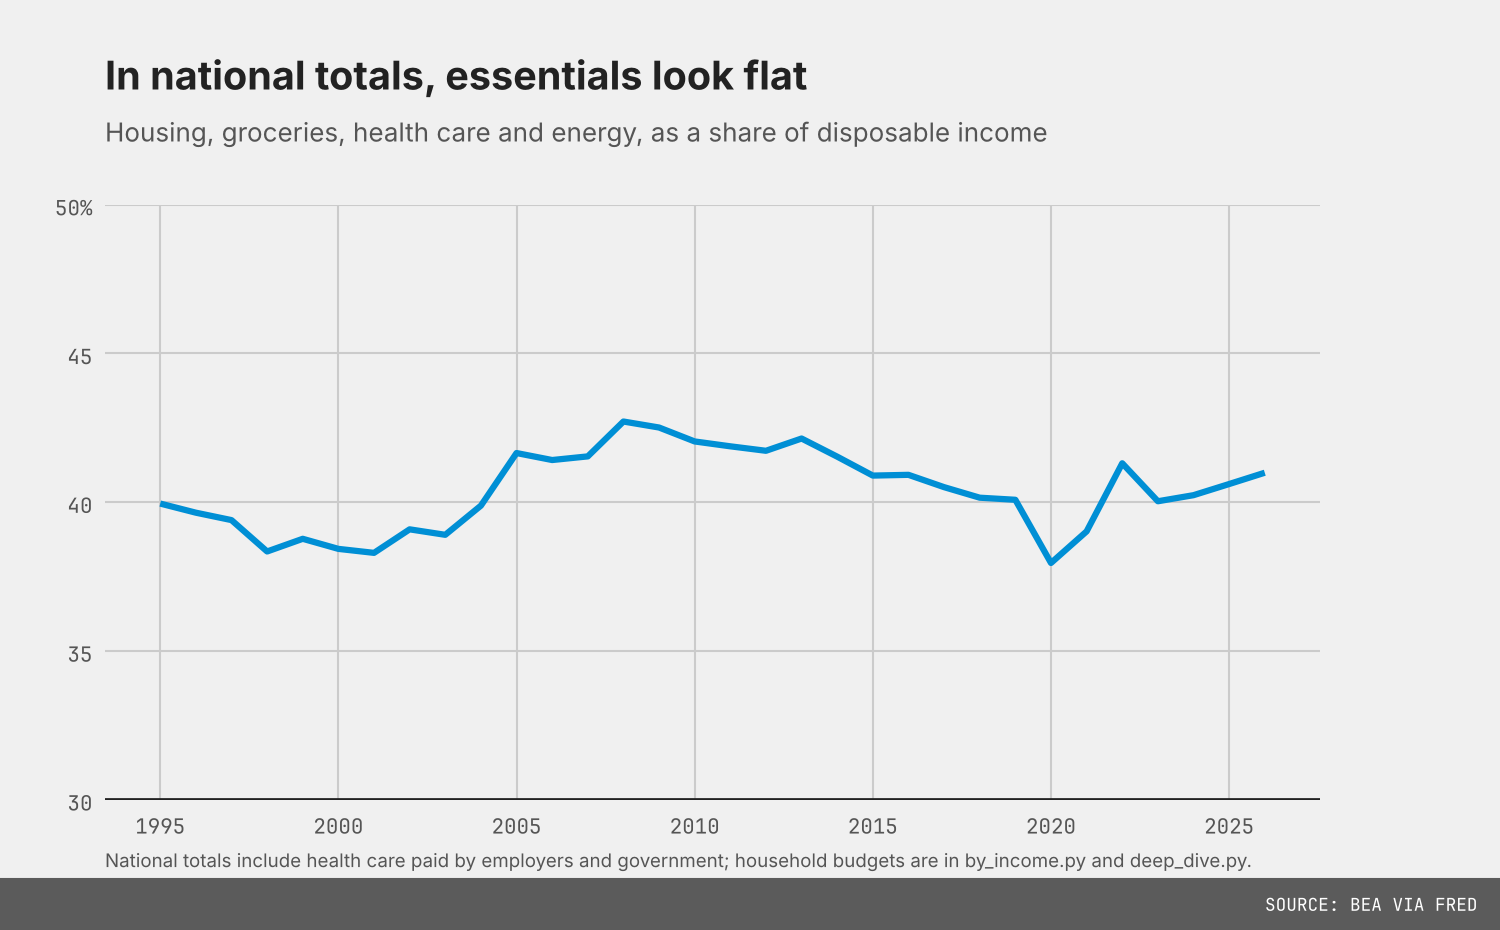
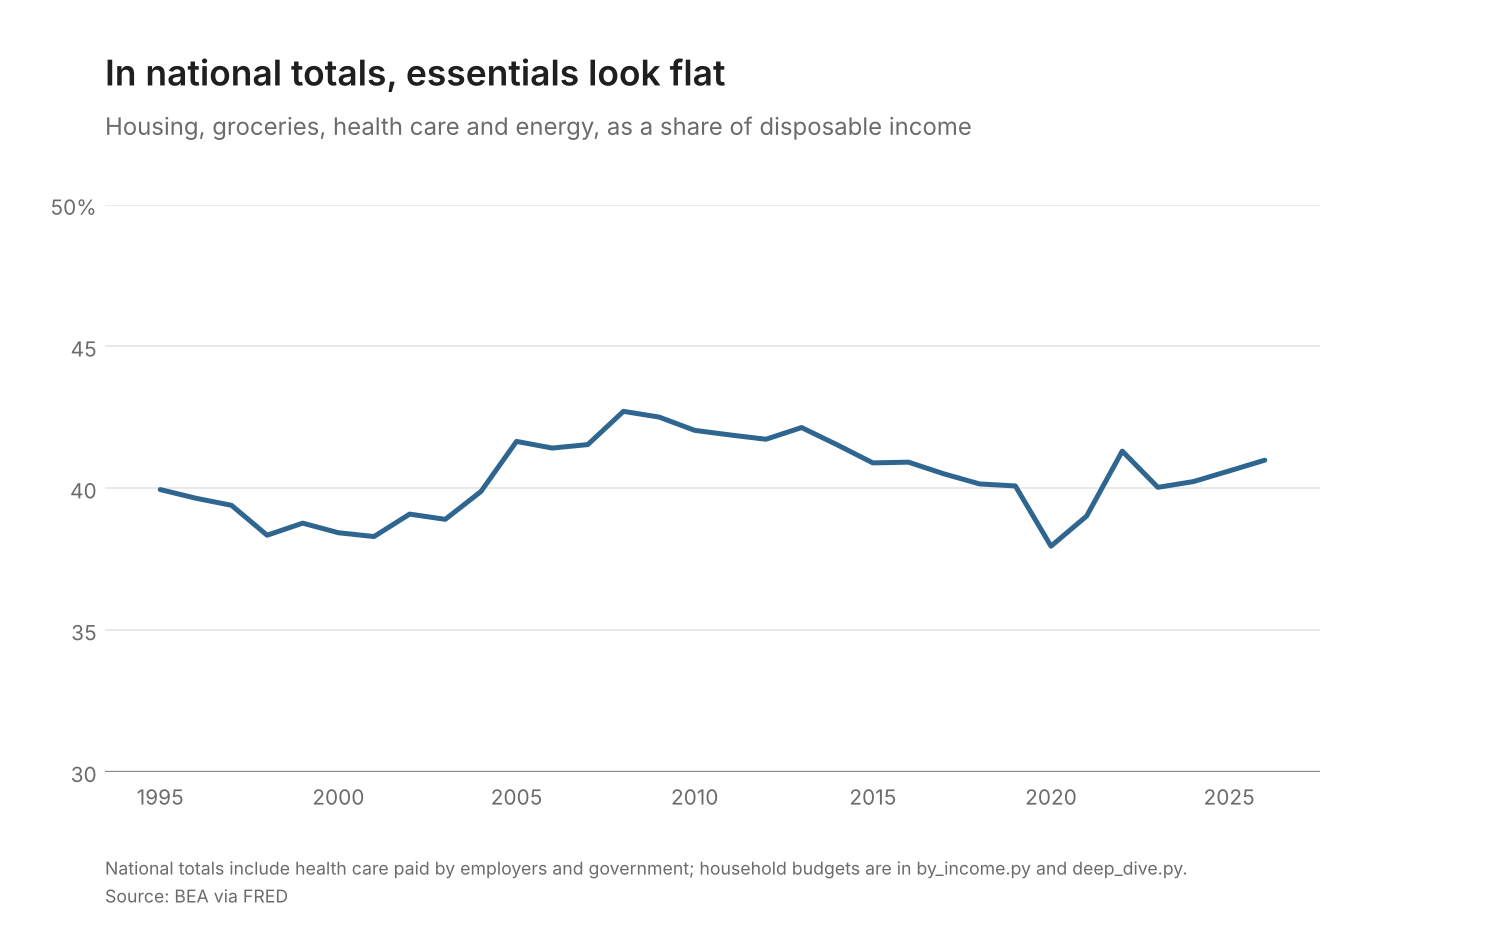
Switch charts to a cleaner neutral style
White background, horizontal gridlines only, sans-serif ticks, a muted
palette, semibold headlines and a plain source line in place of the
gray canvas, monospaced ticks and dark source bar.

Claude-Session: https://claude.ai/code/session_015UrztArHpAPPRd1ooHHwA1

diff --git a/chart_style.py b/chart_style.py
@@ -1,18 +1,20 @@
-"""Shared chart style, modeled on the classic FiveThirtyEight look: light gray canvas,
-bold left-aligned headline with subtitle, monospaced tick labels, thick lines,
-direct labels, a heavy baseline and a dark source bar along the bottom."""
+"""Shared chart style: white background, faint horizontal gridlines, a semibold
+left-aligned headline with a subtitle, direct line labels, a muted palette and a
+small source line at the bottom."""
 import matplotlib.pyplot as plt
 from matplotlib import font_manager
 from matplotlib.ticker import FuncFormatter
 
-BG = "#F0F0F0"
-GRID = "#CBCBCB"
-TEXT = "#222222"
-MUTED = "#555555"
-FOOTER = "#5B5B5B"
+BG = "#FFFFFF"
+GRID = "#E8E8E8"
+TEXT = "#1F1F1F"
+MUTED = "#6B6B6B"
+SHADE = "#F3F3F3"
 
-BLUE, RED, GOLD, GREEN, GRAY, PURPLE = "#008FD5", "#FC4F30", "#E5AE38", "#6D904F", "#8B8B8B", "#810F7C"
-DARK = "#3C3C3C"
+# Muted, colorblind-friendlier palette
+BLUE, RED, GOLD, GREEN, GRAY, PURPLE = "#2F6690", "#C8553D", "#E0A030", "#3A8F7E", "#9A9A9A", "#7A5C99"
+DARK = "#333333"
+LIGHT_GOLD, DARK_GOLD, LIGHT_BLUE = "#F0CF8E", "#A0701A", "#9EC1DB"
 PALETTE = [BLUE, RED, GOLD, GREEN, GRAY, PURPLE]
 
 
@@ -22,71 +24,64 @@ def _font(preferred, fallback):
 
 
 SANS = _font(["Inter", "Helvetica Neue", "Helvetica", "Arial", "Liberation Sans"], "DejaVu Sans")
-MONO = _font(["JetBrains Mono", "DejaVu Sans Mono", "Liberation Mono"], "monospace")
 
 
 def apply():
     plt.rcParams.update({
         "figure.facecolor": BG, "axes.facecolor": BG, "savefig.facecolor": BG,
         "figure.dpi": 150, "font.family": SANS, "font.size": 11, "text.color": TEXT,
-        "axes.edgecolor": BG, "axes.linewidth": 0, "axes.grid": True, "axes.axisbelow": True,
-        "grid.color": GRID, "grid.linewidth": 1.0, "grid.linestyle": "-",
+        "axes.edgecolor": BG, "axes.linewidth": 0, "axes.grid": True, "axes.grid.axis": "y",
+        "axes.axisbelow": True, "grid.color": GRID, "grid.linewidth": 0.9,
         "axes.spines.top": False, "axes.spines.right": False,
         "axes.spines.left": False, "axes.spines.bottom": False,
         "xtick.color": MUTED, "ytick.color": MUTED, "xtick.labelsize": 10, "ytick.labelsize": 10,
-        "xtick.major.size": 0, "ytick.major.size": 0, "xtick.major.pad": 6, "ytick.major.pad": 6,
-        "axes.prop_cycle": plt.cycler(color=PALETTE), "lines.linewidth": 3,
-        "lines.solid_capstyle": "butt", "legend.frameon": False, "legend.fontsize": 10,
-        "axes.titlesize": 12, "axes.titleweight": "bold", "axes.titlelocation": "left", "axes.titlepad": 10,
+        "xtick.major.size": 0, "ytick.major.size": 0, "xtick.major.pad": 6, "ytick.major.pad": 4,
+        "axes.prop_cycle": plt.cycler(color=PALETTE), "lines.linewidth": 2.4,
+        "lines.solid_capstyle": "round", "legend.frameon": False, "legend.fontsize": 10,
+        "axes.titlesize": 11.5, "axes.titleweight": "semibold", "axes.titlelocation": "left",
+        "axes.titlepad": 10, "axes.titlecolor": TEXT,
     })
 
 
 def figure(nrows=1, ncols=1, width=10, height=6.2, **kw):
-    """Figure with room reserved for the headline, subtitle and source bar."""
+    """Figure with room reserved for the headline, subtitle and source line."""
     apply()
     fig, axes = plt.subplots(nrows, ncols, figsize=(width, height), **kw)
-    fig.subplots_adjust(left=0.07, right=0.88, top=0.78, bottom=0.14, wspace=0.28)
+    fig.subplots_adjust(left=0.07, right=0.88, top=0.78, bottom=0.12, wspace=0.28)
     for ax in (axes.flat if hasattr(axes, "flat") else [axes]):
         style_ticks(ax)
     return fig, axes
 
 
 def style_ticks(ax):
-    for lab in ax.get_xticklabels() + ax.get_yticklabels():
-        lab.set_fontfamily(MONO)
     ax.tick_params(axis="both", which="both", length=0)
 
 
 def unit_on_top(ax, fmt=lambda v: f"{v:g}", prefix="", suffix=""):
-    """Put the unit only on the top tick label, as FiveThirtyEight did ('$60', '50%')."""
+    """Put the unit only on the top tick label ('$60', '50%')."""
     ax.figure.canvas.draw()
     ticks = [t for t in ax.get_yticks() if ax.get_ylim()[0] <= t <= ax.get_ylim()[1]]
     top = max(ticks) if ticks else None
     ax.yaxis.set_major_formatter(FuncFormatter(
         lambda v, _: f"{prefix}{fmt(v)}{suffix}" if top is not None and abs(v - top) < 1e-9 else fmt(v)))
-    style_ticks(ax)
 
 
 def baseline(ax, y=0):
-    ax.axhline(y, color=TEXT, lw=1.8, zorder=2)
+    ax.axhline(y, color="#8A8A8A", lw=1.1, zorder=2)
 
 
-def label_end(ax, x, y, text, color, dy=0, dx=0.4, size=10.5, weight="bold"):
+def label_end(ax, x, y, text, color, dy=0, dx=0.4, size=10, weight="semibold"):
     """Direct label at the right end of a line."""
     ax.annotate(text, (x, y), xytext=(x + dx, y + dy), textcoords="data", color=color,
                 fontsize=size, fontweight=weight, va="center", ha="left", annotation_clip=False)
 
 
 def finish(fig, title, subtitle, source, path, note=None):
-    fig.text(0.07, 0.945, title, fontsize=19, fontweight="bold", ha="left", va="top", color=TEXT)
-    fig.text(0.07, 0.875, subtitle, fontsize=12.5, ha="left", va="top", color=MUTED)
-    fig.patches.append(plt.Rectangle((0, 0), 1, 0.055, transform=fig.transFigure,
-                                     color=FOOTER, zorder=-1, figure=fig))
-    fig.text(0.985, 0.0275, f"SOURCE: {source}".upper(), fontsize=8.5, color="white",
-             ha="right", va="center", fontfamily=MONO)
+    fig.text(0.07, 0.945, title, fontsize=17, fontweight="semibold", ha="left", va="top", color=TEXT)
+    fig.text(0.07, 0.88, subtitle, fontsize=11.5, ha="left", va="top", color=MUTED)
     if note:
-        fig.text(0.07, 0.075, note, fontsize=9, color=MUTED, ha="left", va="center")
-    for ax in fig.axes:
-        style_ticks(ax)
+        fig.subplots_adjust(bottom=0.17)
+        fig.text(0.07, 0.055, note, fontsize=8.5, color=MUTED, ha="left", va="bottom")
+    fig.text(0.07, 0.025, f"Source: {source}", fontsize=8.5, color=MUTED, ha="left", va="bottom")
     fig.savefig(path)
     plt.close(fig)

diff --git a/build_index.py b/build_index.py
@@ -155,8 +155,8 @@ SRC_BLS = "BLS average prices via FRED, American Farm Bureau Federation"
 
 # 1. Nominal cost and cost relative to overall prices, with the Farm Bureau benchmark
 fig, ax = cs.figure()
-ax.axvspan(2019.5, latest + 0.5, color="#E2E2E2", zorder=0, lw=0)
-ax.text(2019.7, 31.5, "TURKEY PRICE FROM\nFARM BUREAU SURVEY", fontsize=8, color=cs.MUTED, fontfamily=cs.MONO)
+ax.axvspan(2019.5, latest + 0.5, color=cs.SHADE, zorder=0, lw=0)
+ax.text(2019.7, 31.5, "Turkey price from\nFarm Bureau survey", fontsize=8.5, color=cs.MUTED, style="italic")
 ax.plot(real_total.index, real_total, color=cs.BLUE)
 ax.plot(total.index, total, color=cs.RED)
 ax.plot(total_chicken.loc[2019:].index, total_chicken.loc[2019:], color=cs.RED, lw=1.5, ls=(0, (2, 2)))
@@ -193,11 +193,11 @@ recent = contrib.loc[2015:]
 groups = {"Turkey": (["Turkey"], cs.RED),
           "Potatoes": (["Potatoes"], cs.GREEN),
           "Butter": (["Butter"], cs.GOLD),
-          "Milk": (["Milk"], "#F2CF7E"),
-          "Eggs": (["Eggs"], "#A8741A"),
+          "Milk": (["Milk"], cs.LIGHT_GOLD),
+          "Eggs": (["Eggs"], cs.DARK_GOLD),
           "Ice cream": (["Ice cream (pie)"], cs.PURPLE),
           "Bread": (["Bread (stuffing)"], cs.BLUE),
-          "Flour": (["Flour (rolls, crust)"], "#8CCDEE"),
+          "Flour": (["Flour (rolls, crust)"], cs.LIGHT_BLUE),
           "Sugar": (["Sugar"], cs.GRAY)}
 fig, ax = cs.figure()
 fig.subplots_adjust(top=0.72)

diff --git a/README.md b/README.md
@@ -36,8 +36,8 @@ Run it with:
     python by_income.py       # run after build_index.py
     python deep_dive.py       # run after build_index.py
 
-Charts share one style, defined in `chart_style.py` (uses the Inter and JetBrains Mono
-fonts if installed, otherwise falls back to system fonts).
+Charts share one style, defined in `chart_style.py` (uses the Inter font if installed,
+otherwise falls back to system fonts).
 
 Outputs go to `output/`: summary tables (CSV), three charts, and a text report.
 
